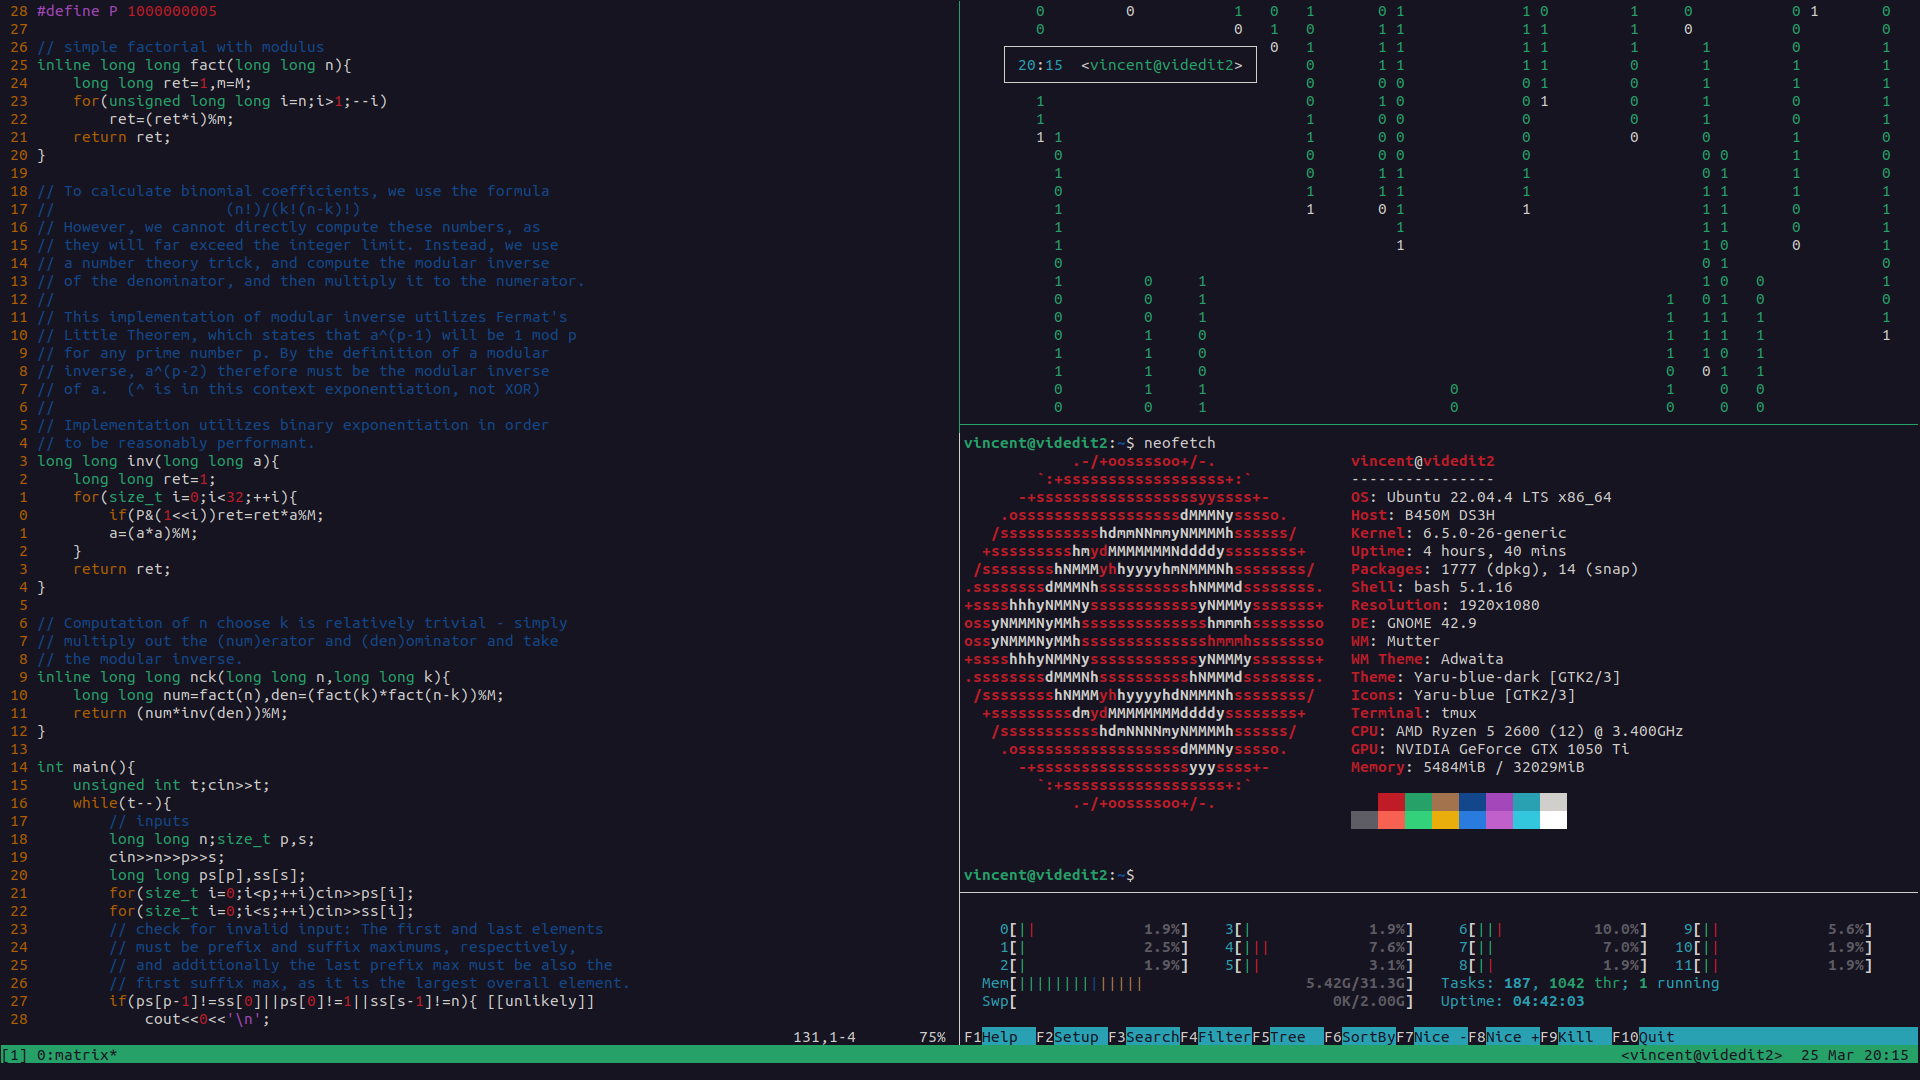
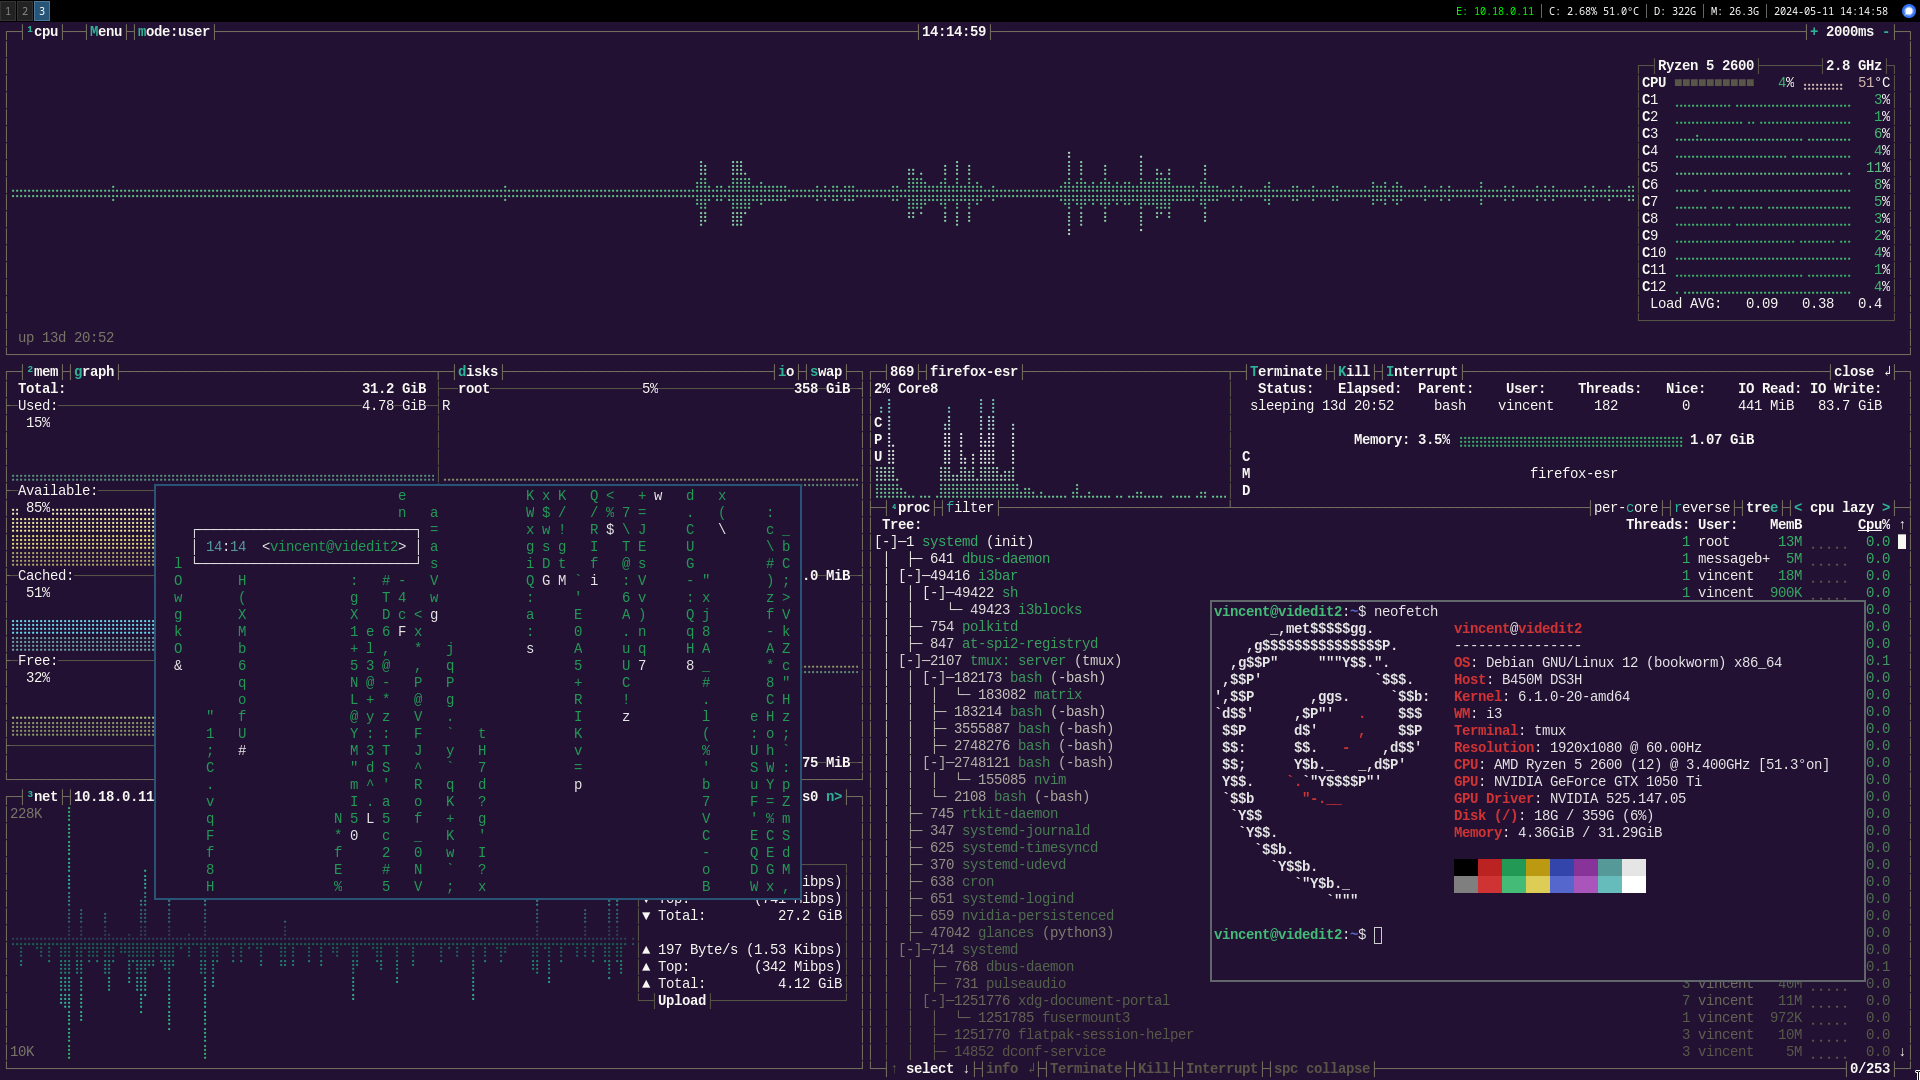
updated pc setup

diff --git a/README.md b/README.md
@@ -1,7 +1,7 @@
 Hello! I'm Vincent Loh, a high school sophomore.
 
-I do a lot of programming, these days mostly usaco-style contest programming.
-A few years ago I used to spend a lot of time making (pretty bad) web games
+I do a lot of programming, these days mostly contest programming.
+A few years ago I spent most of my time making (pretty bad) web games
 with p5js, and still occasionally make little animation projects, like
 [this one](https://github.com/vmhl87/simple-animation-framework).
 
@@ -11,23 +11,26 @@ I do in my [algorithm design](https://github.com/vmhl87/alg_design) class
 at school. It has a bunch of random projects and notes.
 
 C and C++ are the languages I primarily use, especially for contest programming.
-Occasionally I use Python or JS, and rarely Processing. Recently I've been
-messing around with functional programming and learning a bit of Haskell.
+Occasionally I use Python or JS, and rarely Processing. I messed around with
+Haskell a bit, but I still prefer C.
 
 Hardware:
 
 <details><summary>PC</summary>
 
-TODO: update this with new setup
+My desktop is an AMD machine - Ryzen 5 2600 running Debian 12.
+I used to use Ubuntu, but recently switched to this current setup - Gnome
+and snap were getting on my nerves.
 
-My desktop is an AMD machine - Ryzen 5 2600 running Ubuntu.
-It has a pretty standard setup running Gnome on Ubuntu 22.
+I have a similar setup to my laptop: i3 as a window manager, with a tmux-based
+terminal setup. Unlike that laptop, though, I use a graphical terminal (st)
+rather than the framebuffer one, which has issues with scaling on my monitor.
 
-I dislike IDEs and primarily use a combination of nvim and tmux.
-I may in the future switch to an i3 on Debian setup similar to the
-one on my laptop.
+My i3 bindings are a bit strange - find them [here](pc).
 
 ![](assets/pc.png)
+
+![](assets/pc_term.png)
 
 </details>
 
@@ -35,17 +38,21 @@ one on my laptop.
 
 My choice of laptop is rather odd - it's a Lenovo ideapad 3 chromebook.
 
-With an Intel Celeron N4020 underclocked to 1.1GHz and Intel integrated
-graphics, its performance is far from good. However, combined with a
-pretty big battery, it gets a very high SOT. I end up having
-to charge once every week or so, despite using it for school.
+With an Intel Celeron N4020 underclocked to 800mhz and barely functional
+Intel integrated graphics, its performance is far from good. However,
+combined with a pretty substantial battery, it gets a very high SOT.
+I end up having to charge once every week or so, despite using it as my
+daily driver.
 
-A few months ago, I ran this laptop in "standard" chromeOS, doing most
-of my work in the VT2 virtual terminal emulator (essentially a TTY)
-but I recently flashed a UEFI bootloader and installed Debian 12.
+I used to run this laptop in "standard" chromeOS, doing most
+of my work in the VT2 virtual terminal emulator (essentially a worse framebuffer
+console) but I flashed a UEFI bootloader and installed Debian 12.
 
-Though I have i3 configured, I end up doing the majority of my work
+Though I have i3 configured, I do the majority of my work
 in the TTY, with a combination of nvim, tmux, and w3m.
+
+My [framebuffer graphics library](https://github.com/vmhl87/fbgui) was originally
+built for use on this laptop.
 
 ![](assets/chrono-tty.png)
 
@@ -59,8 +66,7 @@ I use a jailbroken iphone SE (first generation, from 2016) on iOS 13.4.1.
 It has the clang toolchain and SDK installed, so I can (and sometimes do)
 code on this device.
 
-I used to use unc0ver v6.2.0, with the elu bootstrap, but recently I
-switched to procursus on Odyssey.
+It is jailbroken with Odysseyra1n, running the Procursus bootstrap.
 
 ![](assets/phone.png)
 
